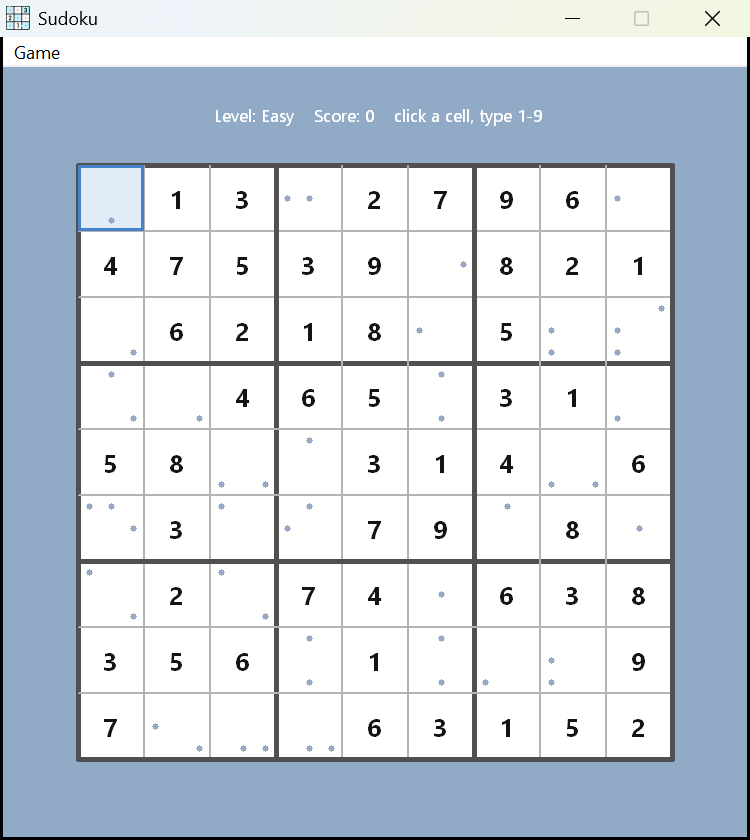
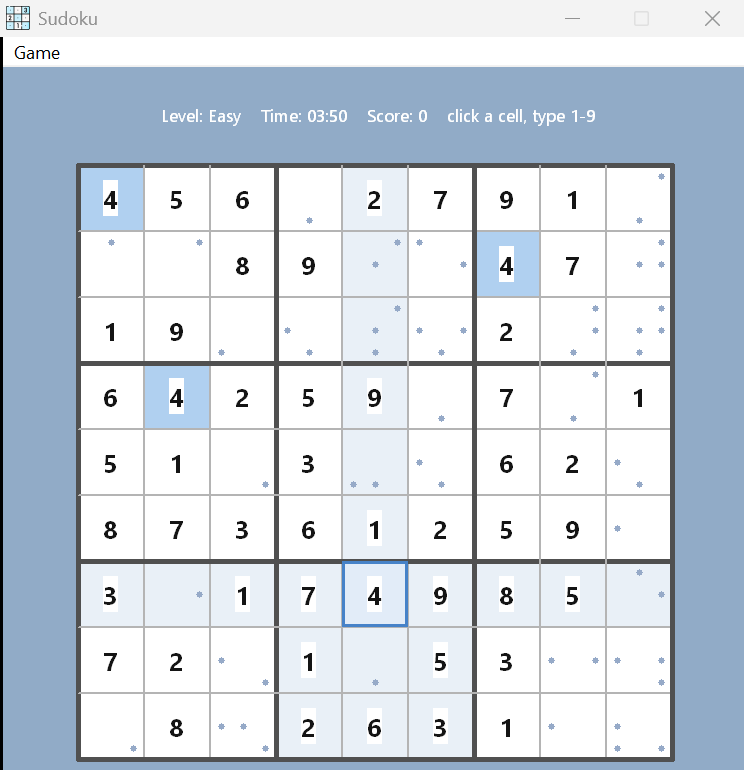
Add peer highlighting and a play timer
- Highlight the selected cell's row, column and 3x3 box (subtle) and
  every cell holding the same digit (stronger), to make it easy to follow
  a line or spot a duplicate.
- Show elapsed play time in the status line; it freezes on a win and is
  persisted through auto-resume (save format bumped to v2).
- A 1-second WM_TIMER repaints the status line.
- Refresh the Easy/Hard screenshots and the README.

diff --git a/gui_sudoku/src/sudoku_gui.c b/gui_sudoku/src/sudoku_gui.c
@@ -1,6 +1,7 @@
 #include <stdio.h>
 #include <stdlib.h>
 #include <string.h>
+#include <time.h>
 
 #include "sudoku_gui.h"
 
@@ -97,6 +98,9 @@ void drawBoard(HDC hdc, struct Game *s1, struct Gui *g1)
     FillRect(hdc, &full, bg);
     DeleteObject(bg);
 
+    int selDigit = (s1->selRow >= 0 && s1->selCol >= 0)
+                       ? board[s1->selRow][s1->selCol] : 0;
+
     for (int r = 0; r < SUDOKU_DIM; r++)
     {
         for (int c = 0; c < SUDOKU_DIM; c++)
@@ -104,11 +108,20 @@ void drawBoard(HDC hdc, struct Game *s1, struct Gui *g1)
             RECT cr = { gx + c * cell, gy + r * cell,
                         gx + (c + 1) * cell, gy + (r + 1) * cell };
 
-            if (r == s1->selRow && c == s1->selCol)
+            bool isSel = (r == s1->selRow && c == s1->selCol);
+            bool isPeer = s1->selRow >= 0 &&
+                          (r == s1->selRow || c == s1->selCol ||
+                           (r / 3 == s1->selRow / 3 && c / 3 == s1->selCol / 3));
+            bool isMatch = selDigit > 0 && !isSel && board[r][c] == selDigit;
+
+            COLORREF fill = isSel ? COLOR_SEL_FILL
+                              : isMatch ? COLOR_MATCH_FILL
+                              : isPeer ? COLOR_PEER_FILL : 0;
+            if (fill)
             {
-                HBRUSH sel = CreateSolidBrush(COLOR_SEL_FILL);
-                FillRect(hdc, &cr, sel);
-                DeleteObject(sel);
+                HBRUSH b = CreateSolidBrush(fill);
+                FillRect(hdc, &cr, b);
+                DeleteObject(b);
             }
 
             char buf[4];
@@ -151,6 +164,41 @@ void drawBoard(HDC hdc, struct Game *s1, struct Gui *g1)
     }
 }
 
+/* Elapsed play time in seconds, frozen once the board is solved. */
+static long elapsedSeconds(const struct Game *s1, long now)
+{
+    if (s1->start_time <= 0)
+    {
+        return 0;
+    }
+    long end = s1->solved ? s1->solved_time : now;
+    if (end < s1->start_time)
+    {
+        return 0;
+    }
+    return end - s1->start_time;
+}
+
+/* Write `secs` as MM:SS (or H:MM:SS past one hour) into buf. */
+static void formatTime(long secs, char *buf, int n)
+{
+    if (secs < 0)
+    {
+        secs = 0;
+    }
+    long h = secs / 3600;
+    long m = (secs % 3600) / 60;
+    long s = secs % 60;
+    if (h > 0)
+    {
+        snprintf(buf, (size_t)n, "%ld:%02ld:%02ld", h, m, s);
+    }
+    else
+    {
+        snprintf(buf, (size_t)n, "%02ld:%02ld", m, s);
+    }
+}
+
 void drawStatus(HDC hdc, struct Game *s1, struct Gui *g1)
 {
     SetBkMode(hdc, TRANSPARENT);
@@ -158,15 +206,20 @@ void drawStatus(HDC hdc, struct Game *s1, struct Gui *g1)
     const char *labels[] = LEVEL_LABELS;
     const char *lvl = (s1->level >= 1 && s1->level <= LEVEL_COUNT)
                           ? labels[s1->level - 1] : "";
+    char timeStr[16];
+    formatTime(elapsedSeconds(s1, (long)time(NULL)), timeStr, (int)sizeof(timeStr));
+
     char line[96];
     if (s1->solved)
     {
-        sprintf(line, "Solved!   Score: %ld   (Game > New to play again)", s1->score);
+        sprintf(line, "Solved in %s!   Score: %ld   (Game > New to play again)",
+                timeStr, s1->score);
         SetTextColor(hdc, COLOR_SOLVED);
     }
     else
     {
-        sprintf(line, "Level: %s    Score: %ld    click a cell, type 1-9", lvl, s1->score);
+        sprintf(line, "Level: %s    Time: %s    Score: %ld    click a cell, type 1-9",
+                lvl, timeStr, s1->score);
         SetTextColor(hdc, COLOR_STATUS);
     }
     HFONT old = SelectObject(hdc, g1->fontStatus);
@@ -222,6 +275,8 @@ void newGame(struct Game *s1, struct Gui *g1, int level)
     s1->solved = false;
     s1->selRow = -1;
     s1->selCol = -1;
+    s1->start_time = (long)time(NULL);
+    s1->solved_time = 0;
     for (int r = 0; r < SUDOKU_DIM; r++)
     {
         for (int c = 0; c < SUDOKU_DIM; c++)
@@ -366,7 +421,12 @@ void onKeyPress(HWND hwnd, struct Game *s1, struct Gui *g1, WPARAM key)
     }
 
     s1->user[r][c] = newVal;
+    bool wasSolved = s1->solved;
     s1->solved = boardFullValid(s1);
+    if (s1->solved && !wasSolved)
+    {
+        s1->solved_time = (long)time(NULL);
+    }
     InvalidateRect(hwnd, NULL, TRUE);
 }
 
@@ -378,9 +438,9 @@ void saveGame(const struct Game *s1)
     {
         return;
     }
-    fprintf(f, "sudoku_save 1\n");
-    fprintf(f, "%d %ld %d %d %d\n", s1->level, s1->score, s1->solved,
-            s1->selRow, s1->selCol);
+    fprintf(f, "sudoku_save 2\n");
+    fprintf(f, "%d %ld %d %d %d %ld %ld\n", s1->level, s1->score, s1->solved,
+            s1->selRow, s1->selCol, s1->start_time, s1->solved_time);
     for (int r = 0; r < SUDOKU_DIM; r++)
     {
         for (int c = 0; c < SUDOKU_DIM; c++)
@@ -406,12 +466,14 @@ bool loadGame(struct Game *s1)
     }
     char magic[32] = {0};
     int ver = 0, lvl = 0, solved = 0, selRow = -1, selCol = -1;
-    long score = 0;
+    long score = 0, startTime = 0, solvedTime = 0;
     int pz[SUDOKU_DIM * SUDOKU_DIM];
     int us[SUDOKU_DIM * SUDOKU_DIM];
     bool ok = fscanf(f, "%31s", magic) == 1 && strcmp(magic, "sudoku_save") == 0 &&
-              fscanf(f, "%d", &ver) == 1 && ver == 1 &&
-              fscanf(f, "%d %ld %d %d %d", &lvl, &score, &solved, &selRow, &selCol) == 5;
+              fscanf(f, "%d", &ver) == 1 && ver == 2 &&
+              fscanf(f, "%d %ld %d %d %d %ld %ld",
+                     &lvl, &score, &solved, &selRow, &selCol,
+                     &startTime, &solvedTime) == 7;
     for (int i = 0; i < SUDOKU_DIM * SUDOKU_DIM && ok; i++)
         ok = fscanf(f, "%d", &pz[i]) == 1;
     for (int i = 0; i < SUDOKU_DIM * SUDOKU_DIM && ok; i++)
@@ -437,6 +499,8 @@ bool loadGame(struct Game *s1)
     s1->solved = solved != 0;
     s1->selRow = (selRow >= 0 && selRow < SUDOKU_DIM) ? selRow : -1;
     s1->selCol = (selCol >= 0 && selCol < SUDOKU_DIM) ? selCol : -1;
+    s1->start_time = startTime;
+    s1->solved_time = solvedTime;
     for (int r = 0; r < SUDOKU_DIM; r++)
     {
         for (int c = 0; c < SUDOKU_DIM; c++)

diff --git a/gui_sudoku/src/main.c b/gui_sudoku/src/main.c
@@ -34,6 +34,8 @@ LRESULT CALLBACK WndProc(HWND hwnd, UINT msg, WPARAM wp, LPARAM lp)
         {
             newGame(pp->s1, pp->g1, 1);
         }
+        /* Repaint once per second so the status-line clock advances. */
+        SetTimer(hwnd, IDT_CLOCK, 1000, NULL);
         return 0;
     }
 
@@ -108,8 +110,16 @@ LRESULT CALLBACK WndProc(HWND hwnd, UINT msg, WPARAM wp, LPARAM lp)
         onKeyPress(hwnd, p1->s1, p1->g1, wp);
         return 0;
 
+    case WM_TIMER:
+        if (wp == IDT_CLOCK)
+        {
+            InvalidateRect(hwnd, NULL, TRUE);
+        }
+        return 0;
+
     case WM_DESTROY:
         saveGame(p1->s1);
+        KillTimer(hwnd, IDT_CLOCK);
         deleteFonts(p1->g1);
         if (p1->g1->menu)
         {

diff --git a/gui_sudoku/include/sudoku_gui.h b/gui_sudoku/include/sudoku_gui.h
@@ -11,6 +11,9 @@
 #define IDM_NEW_HARD   103
 #define IDM_EXIT       104
 
+/* Timer id that drives the once-per-second clock repaint. */
+#define IDT_CLOCK      1
+
 /* All game/model state lives here. The puzzle (givens) is fixed; the user
  * fills the rest. `solution` is kept only as a reference and is never used
  * to judge input. */
@@ -24,6 +27,8 @@ struct Game
     bool solved;
     int selRow; /* -1 == nothing selected */
     int selCol;
+    long start_time; /* epoch seconds when play began; 0 == none */
+    long solved_time; /* epoch seconds when solved; 0 == unsolved */
 };
 
 /* Presentation-only state. */

diff --git a/gui_sudoku/include/config.h b/gui_sudoku/include/config.h
@@ -31,6 +31,8 @@
 #define COLOR_PENCIL     RGB(150, 170, 200)
 #define COLOR_SEL_FILL   RGB(226, 236, 248)
 #define COLOR_SEL_BORDER RGB(70, 130, 200)
+#define COLOR_PEER_FILL  RGB(233, 240, 247)
+#define COLOR_MATCH_FILL RGB(176, 208, 240)
 #define COLOR_LINE_THIN  RGB(180, 180, 180)
 #define COLOR_LINE_THICK RGB(80, 80, 80)
 #define COLOR_TITLE      RGB(255, 255, 255)

diff --git a/README.md b/README.md
@@ -17,6 +17,11 @@ Sudoku rules (row / column / 3×3 box) rather than a stored answer.
   there is no "mistake" counter and no guessing against the answer.
 - **Pencil marks** — empty cells show a dot for every digit that is still a legal
   candidate, so you can reason about the board.
+- **Peer highlighting** — the selected cell's row, column and 3×3 box are tinted, and
+  any cell holding the same digit is highlighted more strongly, so it's easy to follow a
+  line or spot a duplicate.
+- **Timer** — elapsed play time is shown in the status line, frozen on a win, and carried
+  through auto-resume.
 - **Win detection** — the game is won when the board is full and no rule is violated.
 - **Auto-resume** — the current game is saved automatically and restored on the next launch.
 - **High-DPI aware** — the window and all drawing scale with the display's DPI.
@@ -68,7 +73,7 @@ The code is split into a dependency-free model and a thin Win32 view:
 | File | Responsibility |
 | --- | --- |
 | `include/sudoku.h` / `src/sudoku.c` | Pure model: board rules, solution counting, and puzzle generation. No Windows types — testable on any platform. |
-| `include/sudoku_gui.h` / `src/sudoku_gui.c` | Presentation: drawing the board, status line, pencil dots, fonts, input handling, and save/resume. |
+| `include/sudoku_gui.h` / `src/sudoku_gui.c` | Presentation: drawing the board (with peer / match highlighting), status line and play timer, pencil dots, fonts, input handling, and save/resume. |
 | `src/main.c` | Wires the two together: window class, message loop, DPI scaling, and the embedded icon. |
 | `include/config.h` | Layout, colours, fonts, and the save-file path. |
 | `sudoku.rc` / `app.manifest` | Embedded window/EXE icon and the DPI-awareness manifest (compiled with `windres`). |
